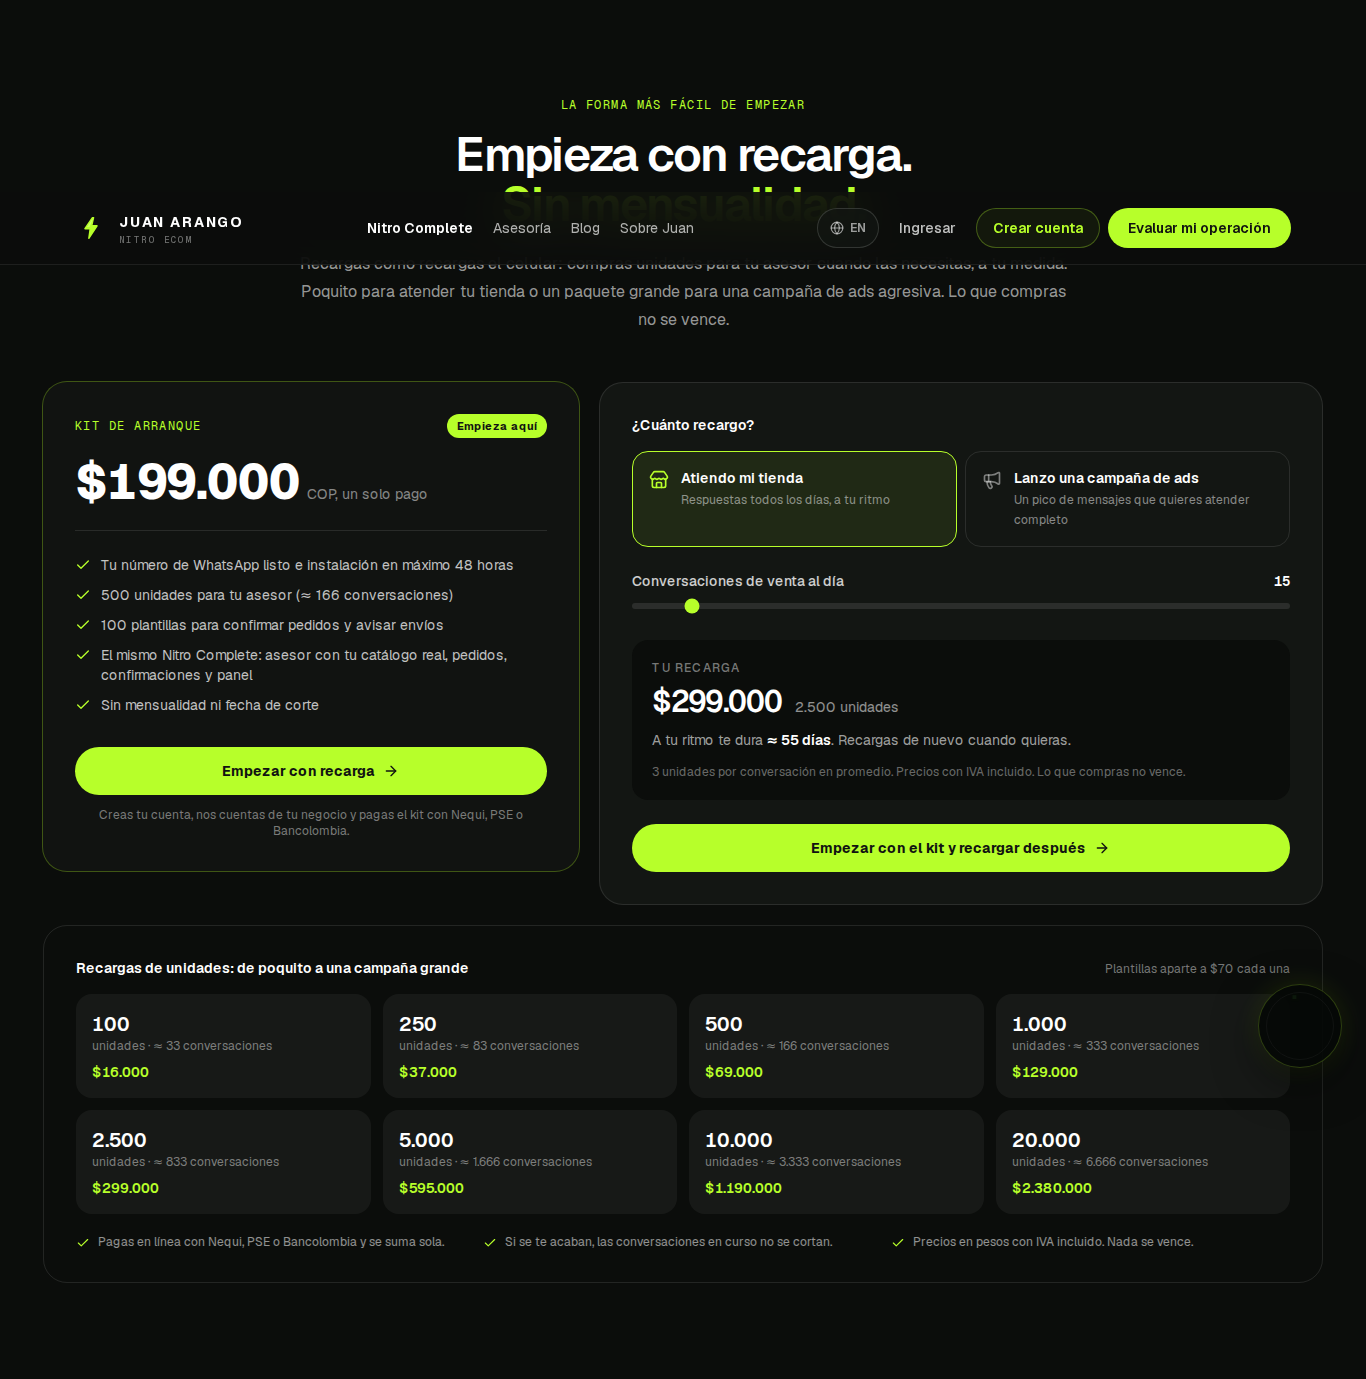
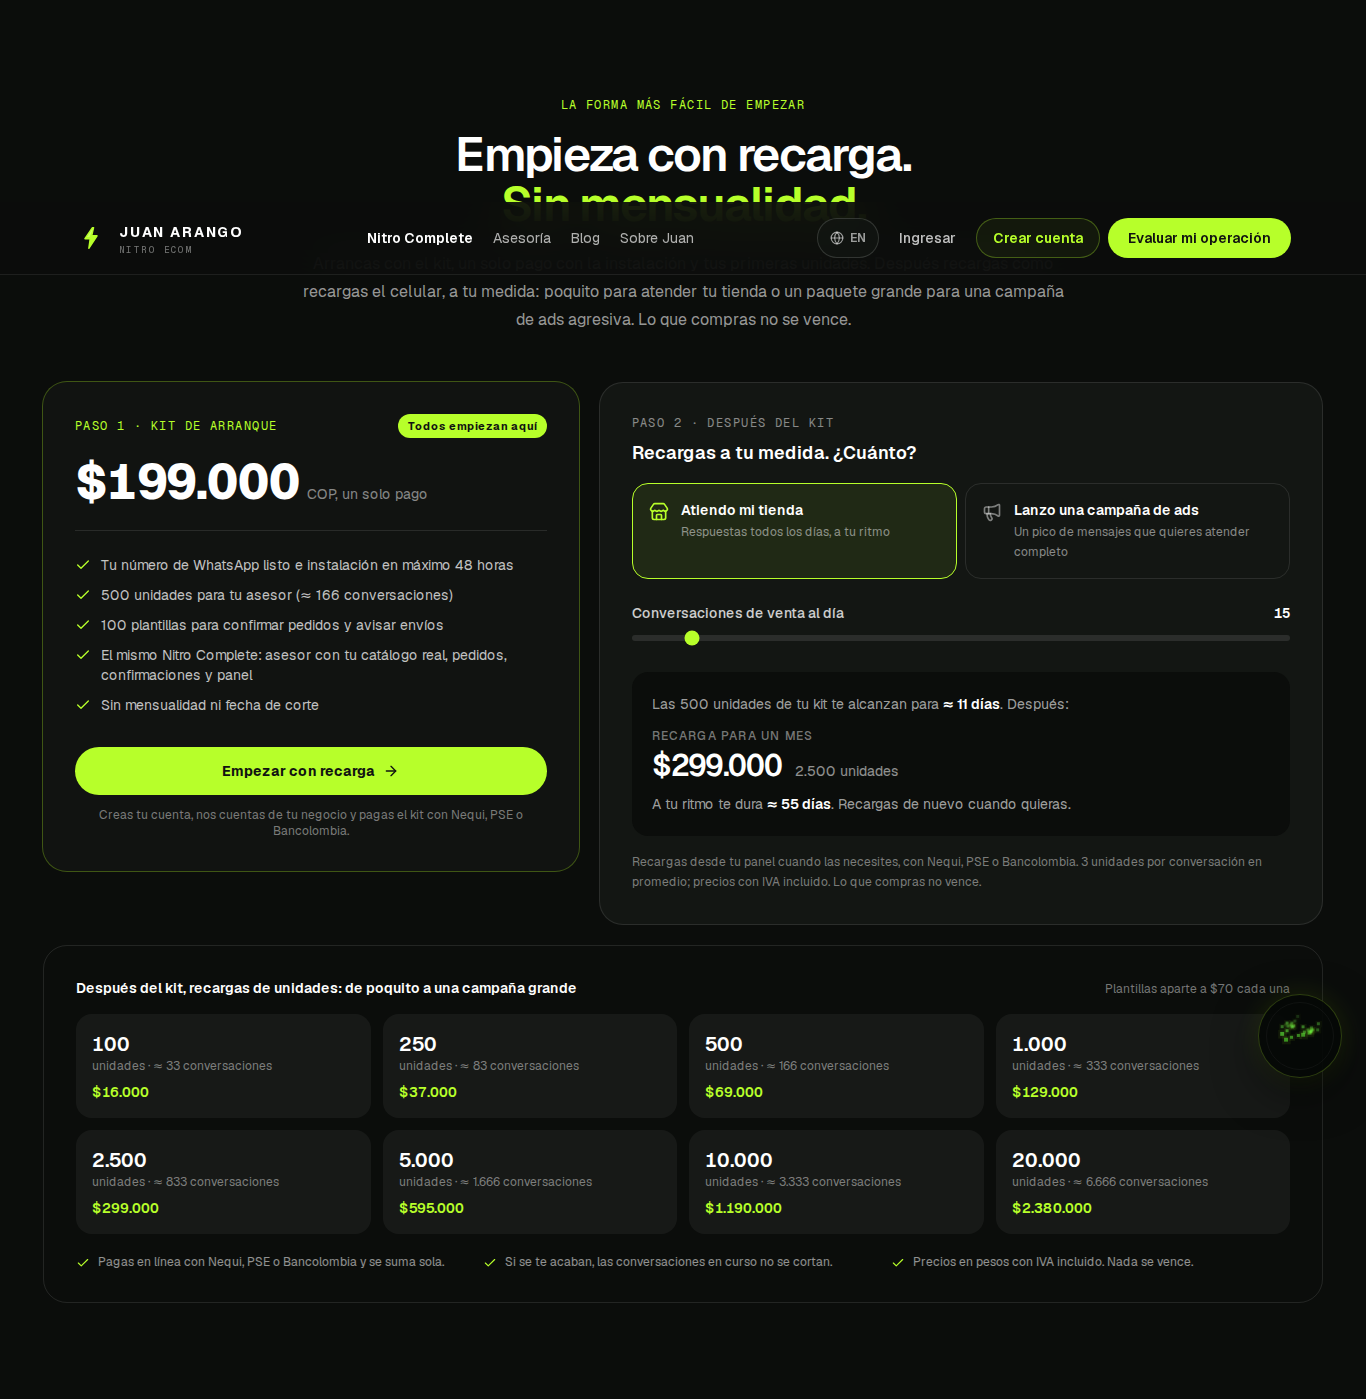
Nitro Complete: starter kit is step 1, recharges are step 2 after the kit
The kit and the recharge planner side by side read as two alternatives. The
kit is mandatory to start: label both as steps, subtract the kit's 500 units
in the planner, and drop the planner's own start button.

diff --git a/src/components/commercial/recharge-planner.tsx b/src/components/commercial/recharge-planner.tsx
@@ -6,11 +6,12 @@
 // no promete ventas ni resultados.
 
 import { useId, useState } from "react";
-import { ArrowRight, Megaphone, Store } from "lucide-react";
+import { Megaphone, Store } from "lucide-react";
 import {
   UNITS_PER_CONVERSATION,
   formatCop,
   nitroCompletePlans,
+  nitroCompleteStarterKit,
   packFor,
   planUnitPrice,
 } from "@/lib/commercial-content";
@@ -43,19 +44,25 @@ const USES = {
   },
 } as const;
 
-export function RechargePlanner({ signupHref }: { signupHref: string }) {
+export function RechargePlanner() {
   const [use, setUse] = useState<Use>("store");
   const [values, setValues] = useState<Record<Use, number>>({ store: USES.store.initial, campaign: USES.campaign.initial });
   const sliderId = useId();
   const config = USES[use];
   const value = values[use];
+  const kitUnits = nitroCompleteStarterKit.units;
 
-  // Atender: lo que recargarías en un mes. Campaña: la campaña completa.
-  const units = (use === "store" ? value * DAYS_PER_MONTH : value) * UNITS_PER_CONVERSATION;
-  const { pack, count } = packFor(units);
+  // Todos empiezan con el kit; la recarga es lo que viene DESPUÉS.
+  // Atender: un mes a su ritmo, una vez gastado el kit. Campaña: lo que el kit
+  // no alcanza a cubrir (si la lanza apenas empieza).
+  const perDay = value * UNITS_PER_CONVERSATION;
+  const kitDays = use === "store" ? Math.floor(kitUnits / perDay) : null;
+  const units = use === "store" ? perDay * DAYS_PER_MONTH : Math.max(0, value * UNITS_PER_CONVERSATION - kitUnits);
+  const needsRecharge = units > 0;
+  const { pack, count } = packFor(Math.max(units, 1));
   const totalUnits = pack.units * count;
   const totalCop = pack.priceCop * count;
-  const daysItLasts = use === "store" ? Math.floor(totalUnits / (value * UNITS_PER_CONVERSATION)) : null;
+  const daysItLasts = use === "store" ? Math.floor(totalUnits / perDay) : null;
 
   // Si con su ritmo diario un plan sale más barato que recargar, se lo decimos.
   const monthlyRechargeCop = use === "store" ? (units / pack.units) * pack.priceCop : 0;
@@ -65,7 +72,8 @@ export function RechargePlanner({ signupHref }: { signupHref: string }) {
 
   return (
     <div className="rounded-3xl border border-white/10 bg-superficie-nitro p-6 sm:p-8">
-      <p className="text-sm font-semibold text-white">¿Cuánto recargo?</p>
+      <p className="font-mono text-xs uppercase tracking-[0.12em] text-white/50">Paso 2 · Después del kit</p>
+      <p className="mt-2 text-lg font-semibold text-white">Recargas a tu medida. ¿Cuánto?</p>
       <div role="radiogroup" aria-label="Para qué vas a usar la recarga" className="mt-4 grid gap-2 sm:grid-cols-2">
         {(Object.keys(USES) as Use[]).map((key) => {
           const option = USES[key];
@@ -110,18 +118,31 @@ export function RechargePlanner({ signupHref }: { signupHref: string }) {
       </div>
 
       <div className="mt-6 rounded-2xl bg-background p-5" aria-live="polite">
-        <p className="text-xs font-medium uppercase tracking-[0.1em] text-white/45">Tu recarga</p>
-        <p className="mt-2 flex flex-wrap items-baseline gap-x-3 gap-y-1">
-          <span className="text-3xl font-semibold tabular-nums tracking-tight text-white">{formatCop(totalCop)}</span>
-          <span className="text-sm text-white/55">
-            {count > 1 ? `${count} × ` : ""}{int.format(pack.units)} unidades
-          </span>
+        <p className="text-sm leading-6 text-white/62">
+          {kitDays != null ? (
+            <>Las {int.format(kitUnits)} unidades de tu kit te alcanzan para <strong className="font-semibold text-white">≈ {int.format(Math.max(kitDays, 1))} {kitDays === 1 ? "día" : "días"}</strong>. Después:</>
+          ) : needsRecharge ? (
+            <>Tu kit cubre las primeras ≈ {int.format(Math.floor(kitUnits / UNITS_PER_CONVERSATION))} conversaciones. Para el resto de la campaña:</>
+          ) : (
+            <>Las {int.format(kitUnits)} unidades de tu kit <strong className="font-semibold text-white">ya cubren esta campaña</strong>. Recargas solo si viene otra.</>
+          )}
         </p>
-        <p className="mt-2 text-sm leading-6 text-white/62">
-          {daysItLasts != null
-            ? <>A tu ritmo te dura <strong className="font-semibold text-white">≈ {int.format(daysItLasts)} días</strong>. Recargas de nuevo cuando quieras.</>
-            : <>Cubre <strong className="font-semibold text-white">≈ {int.format(Math.floor(totalUnits / UNITS_PER_CONVERSATION))} conversaciones</strong>: toda tu campaña. Lo que sobre queda para la próxima.</>}
-        </p>
+        {needsRecharge ? (
+          <>
+            <p className="mt-3 text-xs font-medium uppercase tracking-[0.1em] text-white/45">{use === "store" ? "Recarga para un mes" : "Tu recarga"}</p>
+            <p className="mt-1 flex flex-wrap items-baseline gap-x-3 gap-y-1">
+              <span className="text-3xl font-semibold tabular-nums tracking-tight text-white">{formatCop(totalCop)}</span>
+              <span className="text-sm text-white/55">
+                {count > 1 ? `${count} × ` : ""}{int.format(pack.units)} unidades
+              </span>
+            </p>
+            <p className="mt-2 text-sm leading-6 text-white/62">
+              {daysItLasts != null
+                ? <>A tu ritmo te dura <strong className="font-semibold text-white">≈ {int.format(daysItLasts)} días</strong>. Recargas de nuevo cuando quieras.</>
+                : <>Cubre <strong className="font-semibold text-white">≈ {int.format(Math.floor(totalUnits / UNITS_PER_CONVERSATION))} conversaciones</strong> más. Lo que sobre queda para la próxima.</>}
+            </p>
+          </>
+        ) : null}
         {planIsCheaper && plan ? (
           <p className="mt-3 rounded-xl border border-primary/30 bg-primary/[0.07] px-3 py-2.5 text-sm leading-6 text-white/75">
             Con ese ritmo, <strong className="font-semibold text-white">{plan.name}</strong> te sale más barato:{" "}
@@ -134,17 +155,12 @@ export function RechargePlanner({ signupHref }: { signupHref: string }) {
             <a href="#planes" className="font-semibold text-primary hover:underline">Comparar planes</a>
           </p>
         ) : null}
-        <p className="mt-3 text-xs text-white/40">
-          {UNITS_PER_CONVERSATION} unidades por conversación en promedio. Precios con IVA incluido. Lo que compras no vence.
-        </p>
       </div>
 
-      <a
-        href={signupHref}
-        className="group mt-6 inline-flex min-h-12 w-full items-center justify-center gap-2 rounded-full bg-primary px-6 text-sm font-bold text-ink transition hover:bg-primary/85"
-      >
-        Empezar con el kit <ArrowRight className="size-4 transition-transform group-hover:translate-x-1" aria-hidden="true" />
-      </a>
+      <p className="mt-4 text-xs leading-5 text-white/45">
+        Recargas desde tu panel cuando las necesites, con Nequi, PSE o Bancolombia. {UNITS_PER_CONVERSATION} unidades por conversación en
+        promedio; precios con IVA incluido. Lo que compras no vence.
+      </p>
     </div>
   );
 }

diff --git a/src/app/(main)/nitro-complete/page.tsx b/src/app/(main)/nitro-complete/page.tsx
@@ -303,14 +303,14 @@ export default function NitroCompletePage() {
           <div className="mx-auto max-w-3xl text-center">
             <p className="font-mono text-xs uppercase tracking-[0.12em] text-primary">La forma más fácil de empezar</p>
             <h2 className="mt-4 text-balance text-4xl font-semibold leading-[1.05] tracking-[-0.035em] text-white sm:text-5xl">Empieza con recarga. <span className="text-primary">Sin mensualidad.</span></h2>
-            <p className="mt-5 text-base leading-7 text-white/58">Recargas como recargas el celular: compras unidades para tu asesor cuando las necesitas, a tu medida. Poquito para atender tu tienda o un paquete grande para una campaña de ads agresiva. Lo que compras no se vence.</p>
+            <p className="mt-5 text-base leading-7 text-white/58">Arrancas con el kit, un solo pago con la instalación y tus primeras unidades. Después recargas como recargas el celular, a tu medida: poquito para atender tu tienda o un paquete grande para una campaña de ads agresiva. Lo que compras no se vence.</p>
           </div>
 
           <div className="mt-12 grid gap-5 lg:grid-cols-[.85fr_1.15fr] lg:items-start">
             <article className="rounded-3xl bg-ink p-7 text-white ring-1 ring-primary/30 sm:p-8">
               <div className="flex items-center justify-between gap-3">
-                <p className="font-mono text-xs uppercase tracking-[0.12em] text-primary">Kit de arranque</p>
-                <span className="rounded-full bg-primary px-2.5 py-1 text-[11px] font-bold text-ink">Empieza aquí</span>
+                <p className="font-mono text-xs uppercase tracking-[0.12em] text-primary">Paso 1 · Kit de arranque</p>
+                <span className="rounded-full bg-primary px-2.5 py-1 text-[11px] font-bold text-ink">Todos empiezan aquí</span>
               </div>
               <p className="mt-5 flex flex-wrap items-baseline gap-x-2 gap-y-1"><span className="text-5xl font-extrabold tracking-tight tabular-nums">{nitroCompleteStarterKit.price}</span><span className="text-sm text-white/50">COP, un solo pago</span></p>
               <ul className="mt-6 space-y-2.5 border-t border-white/10 pt-6 text-sm text-white/75">
@@ -327,12 +327,12 @@ export default function NitroCompletePage() {
               <a href={nitroAppUrl("/registro")} className="group mt-8 inline-flex min-h-12 w-full items-center justify-center gap-2 rounded-full bg-primary px-6 text-sm font-bold text-ink transition hover:bg-primary/85">Empezar con recarga <ArrowRight className="size-4 transition-transform group-hover:translate-x-1" /></a>
               <p className="mt-3 text-center text-xs text-white/45">Creas tu cuenta, nos cuentas de tu negocio y pagas el kit con Nequi, PSE o Bancolombia.</p>
             </article>
-            <RechargePlanner signupHref={nitroAppUrl("/registro")} />
+            <RechargePlanner />
           </div>
 
           <div className="mt-5 rounded-3xl border border-white/10 p-6 sm:p-8">
             <div className="flex flex-wrap items-baseline justify-between gap-2">
-              <p className="text-sm font-semibold text-white">Recargas de unidades: de poquito a una campaña grande</p>
+              <p className="text-sm font-semibold text-white">Después del kit, recargas de unidades: de poquito a una campaña grande</p>
               <p className="text-xs text-white/45">Plantillas aparte a {nitroCompleteTemplatePrice} cada una</p>
             </div>
             <div className="mt-4 grid grid-cols-2 gap-3 sm:grid-cols-4">

diff --git a/docs/bitacora/2026-10.md b/docs/bitacora/2026-10.md
@@ -19,6 +19,12 @@ sesión (nitro_bot, sesión «ter» del 01-oct en su AGENTS.md).
   coincide con `IMPLEMENTATION_INCLUDES` de nitro_bot. Tabla Prepago vs Plan.
   Juan pidió cambiar el copy de los planes: la restricción de NIT-89 («no
   cambiar el copy de los planes») quedó superada.
+- **El kit no es una alternativa a la recarga** (ajuste del mismo día, a
+  pedido de Juan): las dos tarjetas lado a lado se leían como «elige una».
+  Ahora son pasos: «Paso 1 · Kit de arranque — Todos empiezan aquí» y «Paso 2
+  · Después del kit». El planificador descuenta las 500 unidades del kit
+  (cuántos días le duran, o qué parte de la campaña cubren) y ya no tiene
+  botón propio: el único «Empezar» es el del kit.
 - **Home**: sección «Empieza a tu medida» (`#precios`) con las dos puertas.
 - **FAQ**: qué incluye la implementación y cómo pasar de recargas a plan.
 - **Correos del dominio (NIT-93)**: `src/lib/contact-emails.ts`. Pie del
